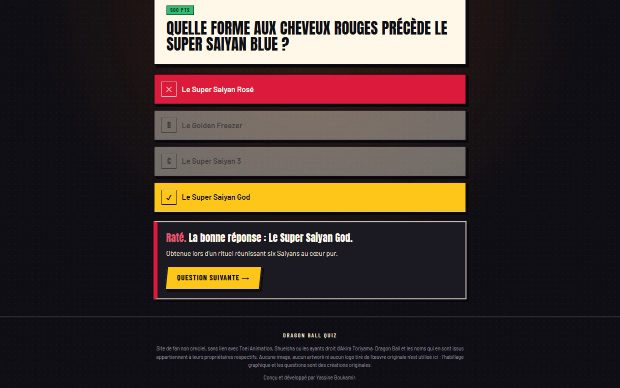
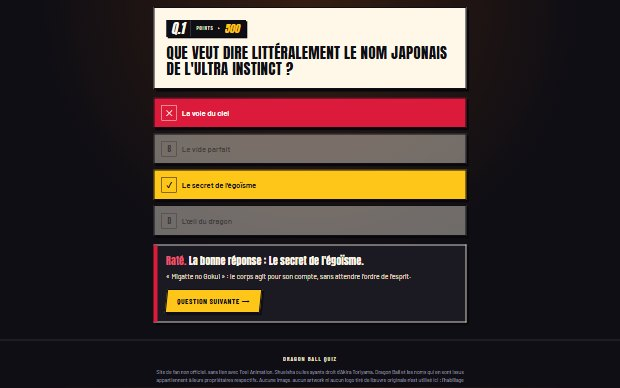
Met à jour la capture « En partie » de l'étude de cas Dragon Ball Quiz
Le quiz affiche désormais une plaque numérotée à chaque question : nouvelle
capture au même cadrage, et texte alternatif qui mentionne le numéro.

Changed region(s): [[0.2452, 0.0, 0.7661, 1.0]]

diff --git a/dragonballquiz.html b/dragonballquiz.html
@@ -145,7 +145,7 @@
                    srcset="assets/projets/dragonballquiz-partie.jpg 620w, assets/projets/dragonballquiz-partie@2x.jpg 1240w"
                    sizes="(max-width: 700px) calc(100vw - 2 * var(--gutter) - 50px), 520px"
                    width="1240" height="775"
-                   alt="Une question du quiz : sa valeur en points, les quatre réponses, la réponse choisie en rouge et la bonne en jaune"
+                   alt="Une question du quiz : son numéro et sa valeur en points, les quatre réponses, la réponse choisie en rouge et la bonne en jaune"
                    loading="lazy" decoding="async">
               <p class="muted small">Chaque question affiche ce qu'elle rapporte : 300, 500 ou 1&nbsp;000 points selon sa difficulté. Après la réponse, la bonne est révélée et expliquée en une phrase.</p>
             </div>
